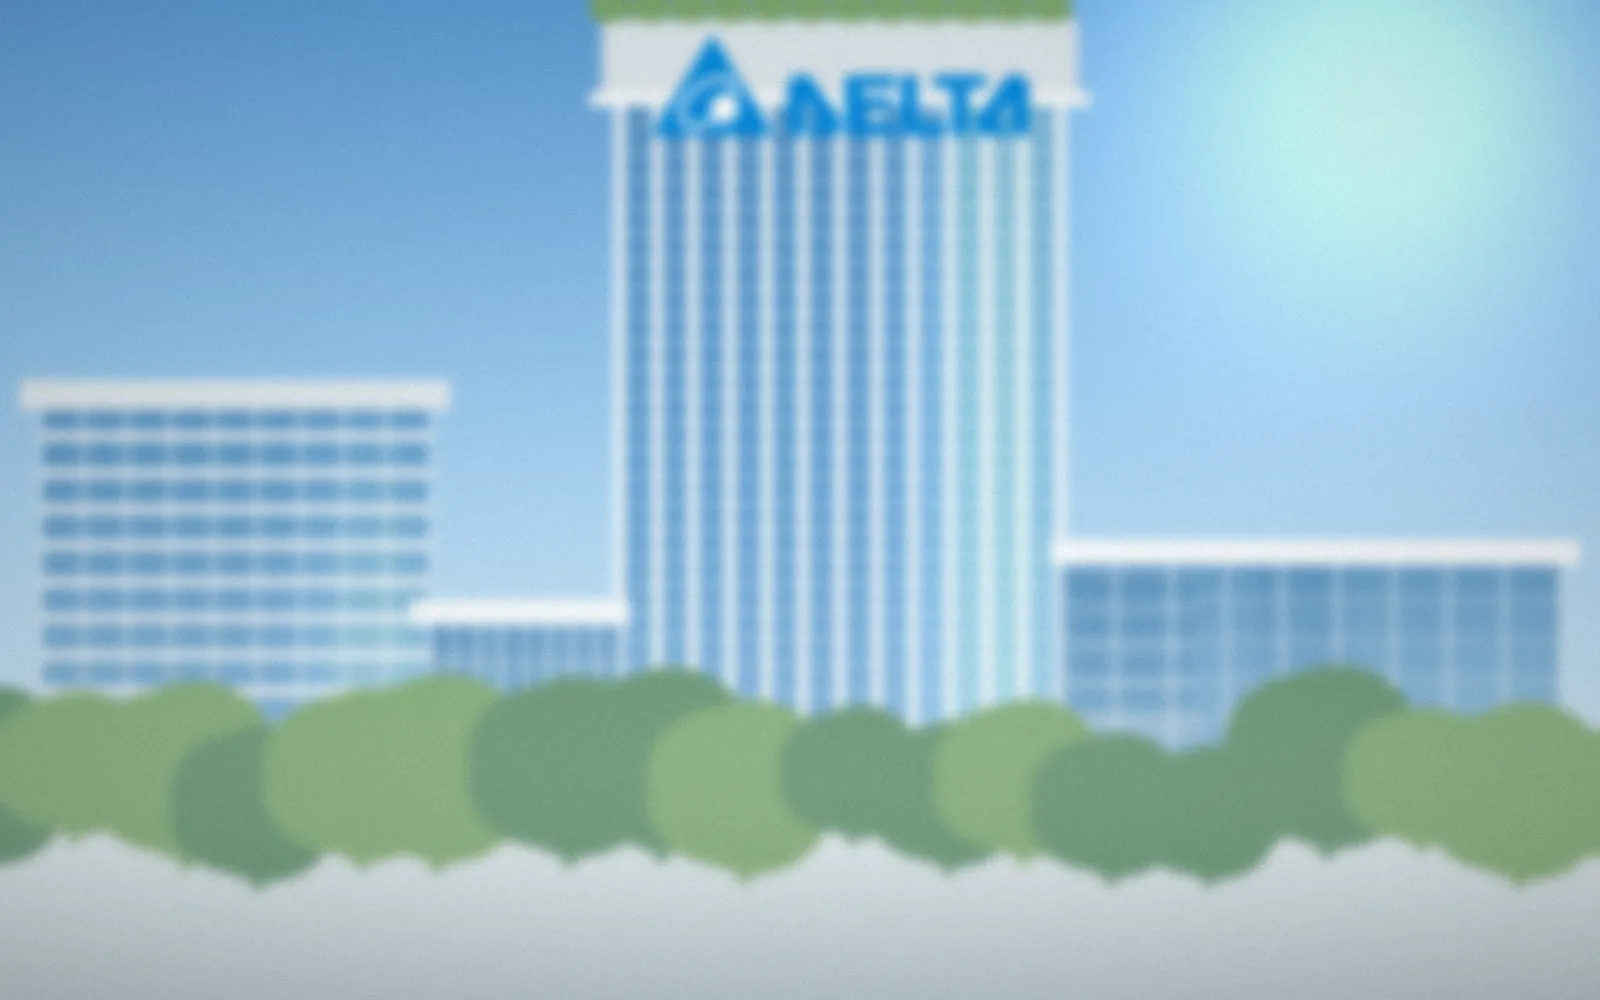
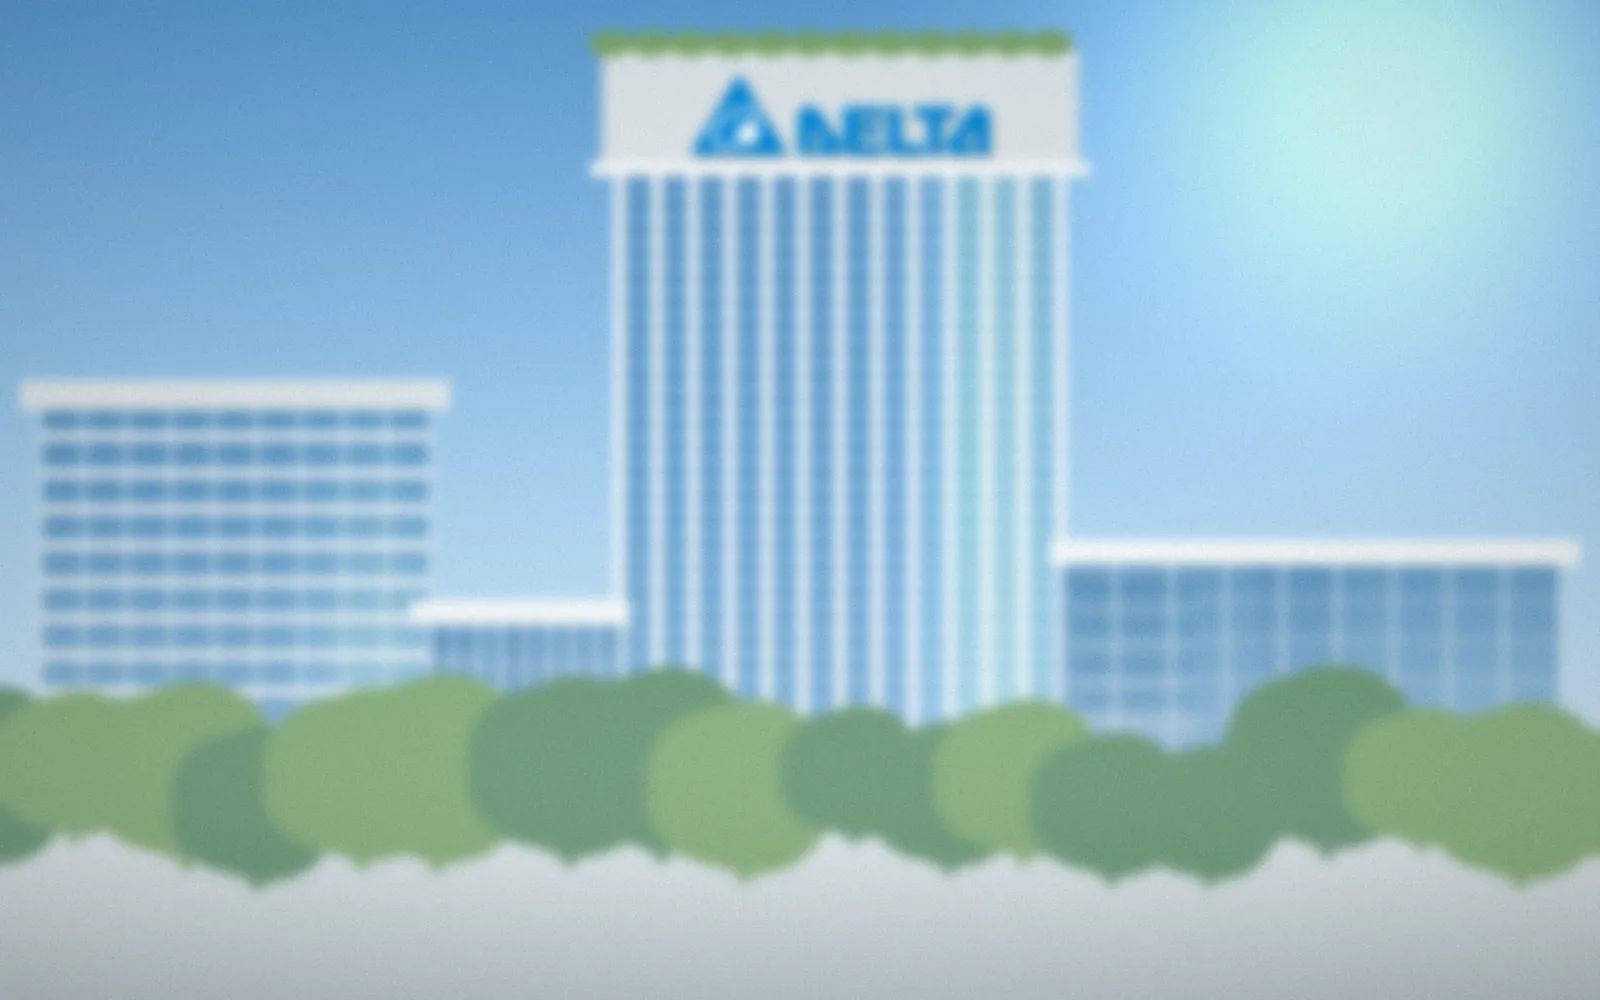
Set the Delta sign into the backdrop tower's crown and backlight it at night
The mark now sits inside a solid parapet with margins and a contact
shadow by day; at night the blue is lit up (white mark kept) with a soft
halo. Tower lowered so the crown and roof garden stay in frame.

Claude-Session: https://claude.ai/code/session_012e3ehTCd2ctkDdbYuLX2zr

Changed region(s): [[0.3438, 0.0, 0.6875, 0.186]]

diff --git a/scripts/render_delta_backdrop.py b/scripts/render_delta_backdrop.py
@@ -130,12 +130,14 @@ def render(t, rng):
     fill(img, (20, H * 0.38, 450, H * 0.41), t["frame"])
 
     # main tower: glass with vertical sun-shading fins and a crown carrying the mark
-    tx0, tx1, ty0 = 620, 1060, int(H * 0.10)
+    tx0, tx1, ty0 = 620, 1060, int(H * 0.17)
     glass(t, img, (tx0, ty0, tx1, ground_y), rng, lights, 12, 26, refl=0.5)
     for k in range(13):
         x = tx0 + k * (tx1 - tx0) / 12
         fill(img, (x - 5, ty0, x + 5, ground_y), t["fin"])
-    fill(img, (tx0 - 18, ty0 - 80, tx1 + 18, ty0), t["frame"])   # crown
+    CROWN = 118
+    fill(img, (tx0 - 18, ty0 - CROWN, tx1 + 18, ty0), t["frame"])   # crown (solid parapet)
+    fill(img, (tx0 - 18, ty0 - CROWN, tx1 + 18, ty0 - CROWN + 6), t["fin"])  # coping
     fill(img, (tx0 - 30, ty0 - 8, tx1 + 30, ty0 + 6), t["fin"])   # roof blade
     # roof garden on the crown edge (green building)
     d0 = ImageDraw.Draw(plate_holder := to_img(img))
@@ -157,21 +159,36 @@ def render(t, rng):
         tree(d, x + rng.uniform(-20, 20), ground_y + rng.uniform(40, 90), rng.uniform(55, 85),
              t["tree"] if rng.random() < 0.6 else t["tree2"])
     for x in np.arange(tx0 - 10, tx1 + 10, 40):
-        d.ellipse([x - 22, ty0 - 104, x + 22, ty0 - 78], fill=t["tree2"])
-    # mark on the crown
+        d.ellipse([x - 22, ty0 - CROWN - 22, x + 22, ty0 - CROWN + 4], fill=t["tree2"])
+    # Mark mounted on the crown like real building signage: sized to sit inside
+    # the parapet with margins, a contact shadow by day, backlit (blue lit up,
+    # white mark kept) with a soft halo at night.
     logo = Image.open(LOGO).convert("RGBA")
-    lw = int((tx1 - tx0) * 0.86)
-    logo = logo.resize((lw, int(lw * logo.height / logo.width)), Image.LANCZOS)
-    lx, ly = (tx0 + tx1 - lw) // 2, ty0 - 66
-    if t["logo_glow"]:
-        lit = Image.new("RGBA", logo.size, (150, 220, 255, 0))
-        lit.putalpha(logo.getchannel("A"))
-        lit = Image.blend(logo, lit, t["logo_glow"])
-        plate.alpha_composite(lit, (lx, ly)) if plate.mode == "RGBA" else plate.paste(lit, (lx, ly), lit)
-    else:
-        plate.paste(logo, (lx, ly), logo)
-    if True:
-        lights.append((tx0 + (tx1 - tx0) / 2, ly + 20, "#8fd6ff", max(0.35, t["logo_glow"])))
+    lw = int((tx1 - tx0) * 0.68)
+    lh = int(lw * logo.height / logo.width)
+    logo = logo.resize((lw, lh), Image.LANCZOS)
+    lx, ly = (tx0 + tx1 - lw) // 2, ty0 - CROWN // 2 - lh // 2 + 3
+    alpha = logo.getchannel("A")
+    sign = t["logo_glow"]
+    if sign < 0.5:  # daylight / dusk: letters stand slightly proud of the panel
+        sh = Image.new("RGBA", logo.size, (0, 0, 0, 0))
+        sh.putalpha(alpha.point(lambda v: int(v * 0.32)))
+        sh = sh.filter(ImageFilter.GaussianBlur(2.5))
+        plate.paste(sh, (lx + 3, ly + 4), sh)
+    if sign:
+        arr = np.asarray(logo).astype(np.float32)
+        rgb = arr[..., :3] / 255
+        lit_rgb = np.clip(rgb * (1 + 0.9 * sign) + np.array([0.10, 0.22, 0.30]) * sign, 0, 1)
+        logo = Image.fromarray(np.dstack([lit_rgb * 255, arr[..., 3:]]).astype(np.uint8), "RGBA")
+        halo = Image.new("RGBA", (lw + 80, lh + 80), (0, 0, 0, 0))
+        hm = Image.new("L", halo.size, 0)
+        hm.paste(alpha, (40, 40))
+        hm = hm.filter(ImageFilter.GaussianBlur(14)).point(lambda v: int(min(255, v * 1.6 * sign)))
+        halo = Image.new("RGBA", halo.size, (90, 190, 255, 255))
+        halo.putalpha(hm)
+        plate.paste(halo, (lx - 40, ly - 40), halo)
+    plate.paste(logo, (lx, ly), logo)
+    lights.append((tx0 + (tx1 - tx0) / 2, ly + lh / 2, "#8fd6ff", max(0.35, sign)))
     # plaza lamps
     if t["lit"]:
         for x in np.arange(30, W, 120):
